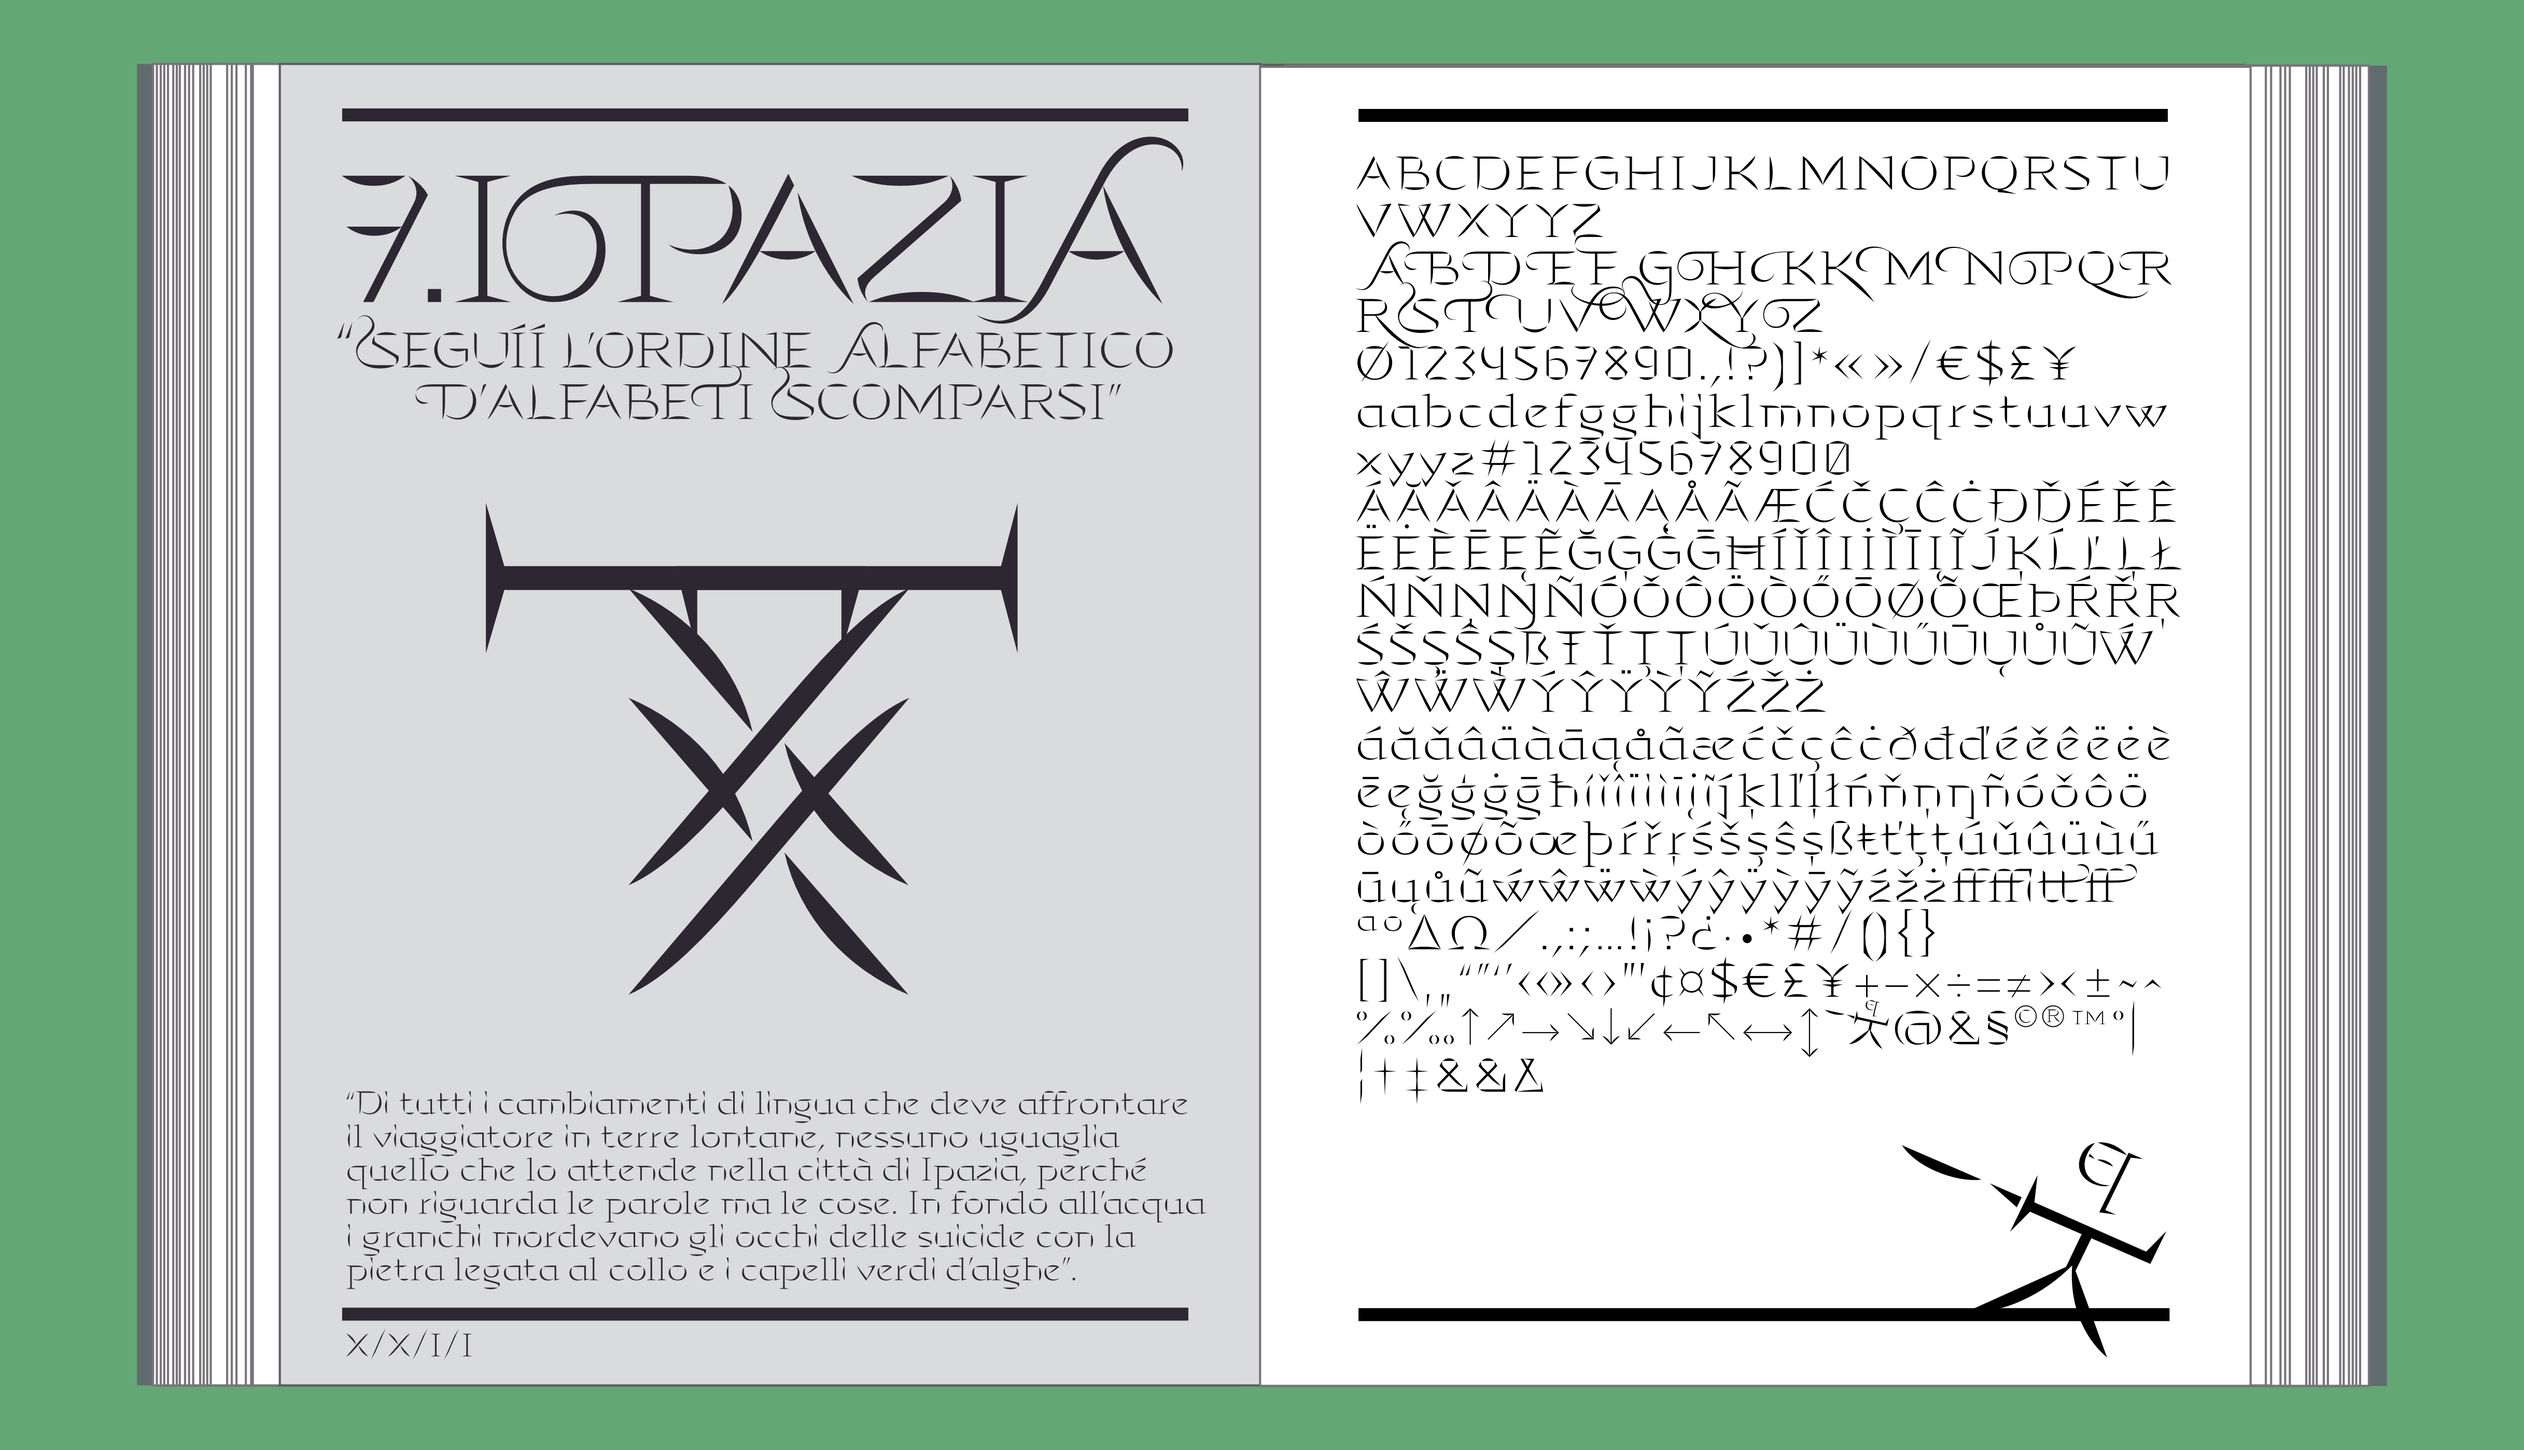
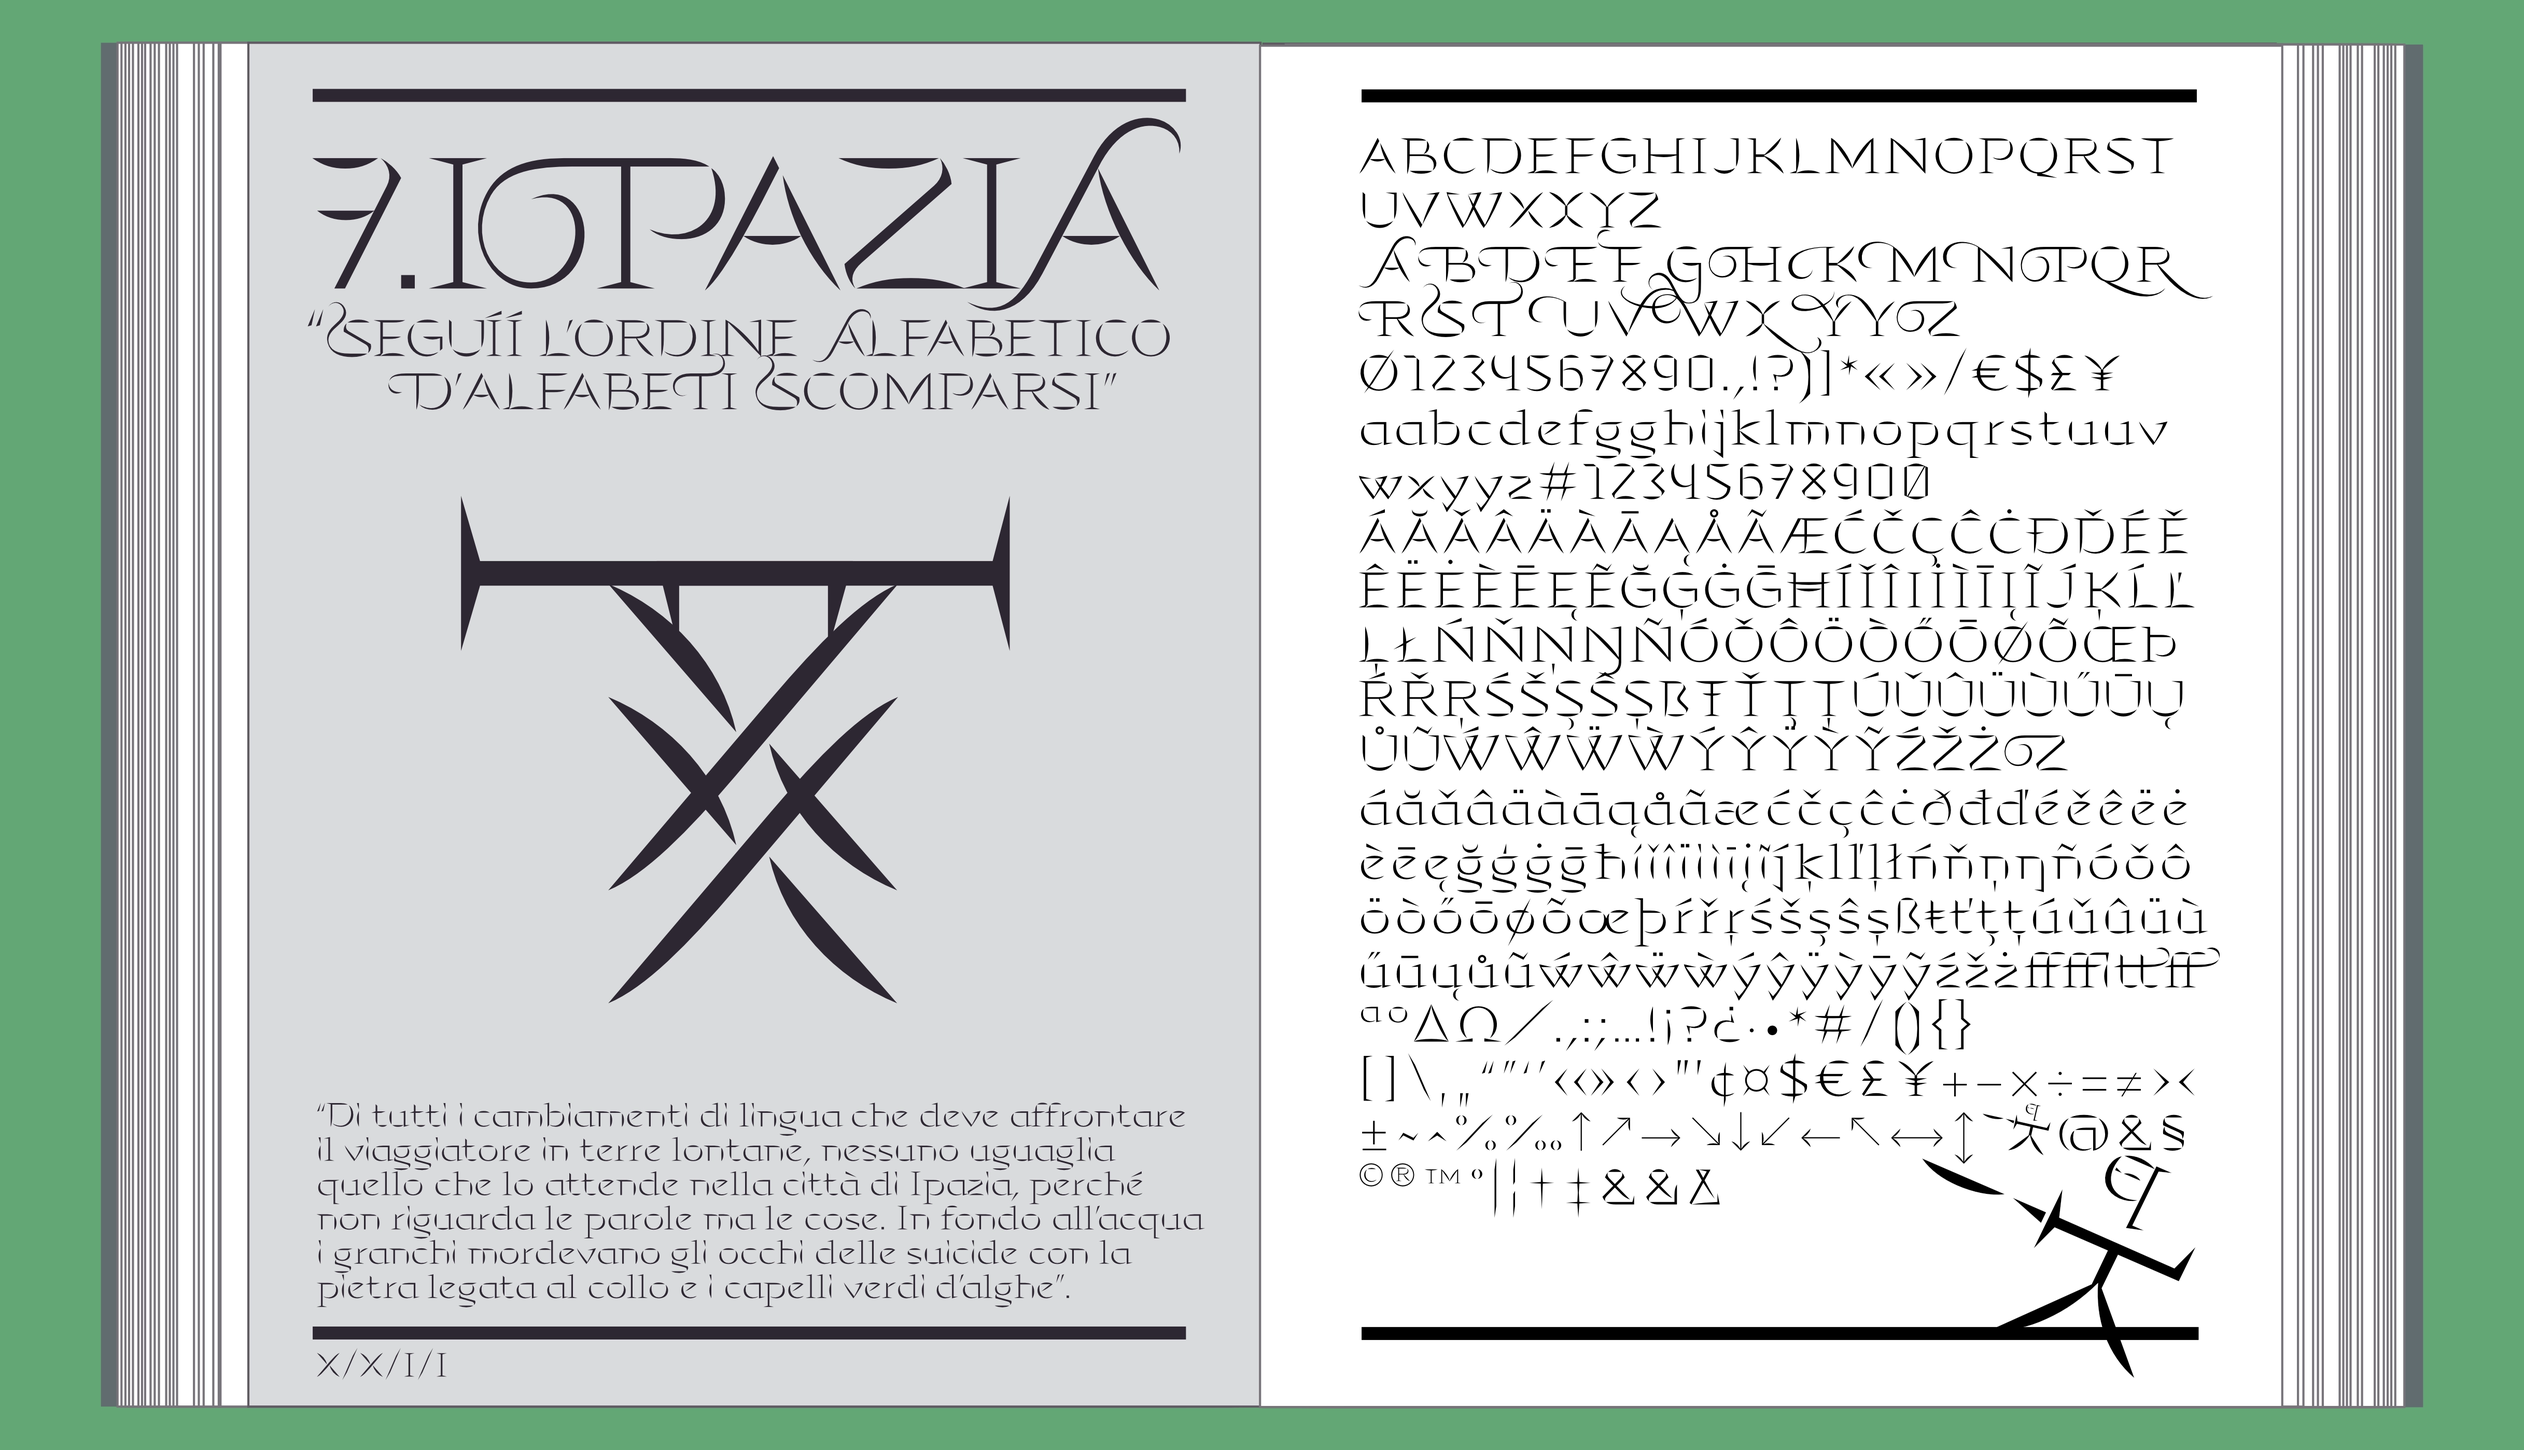
Slide a 200 px

diff --git a/jijoninja-trial.html b/jijoninja-trial.html
@@ -99,7 +99,7 @@
 
         .trial-slideshow {
           width: 100%;
-          height: 700px;
+          height: 200px;
           position: relative;
           background-color: #ddd;
           margin: 20px 0 0;
